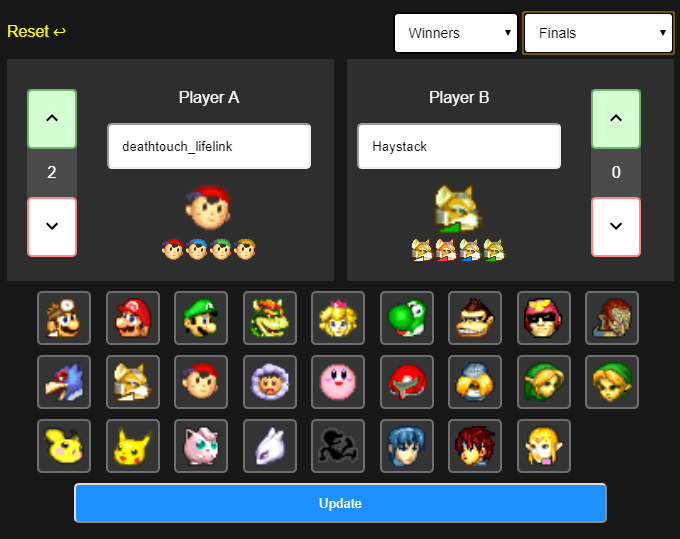
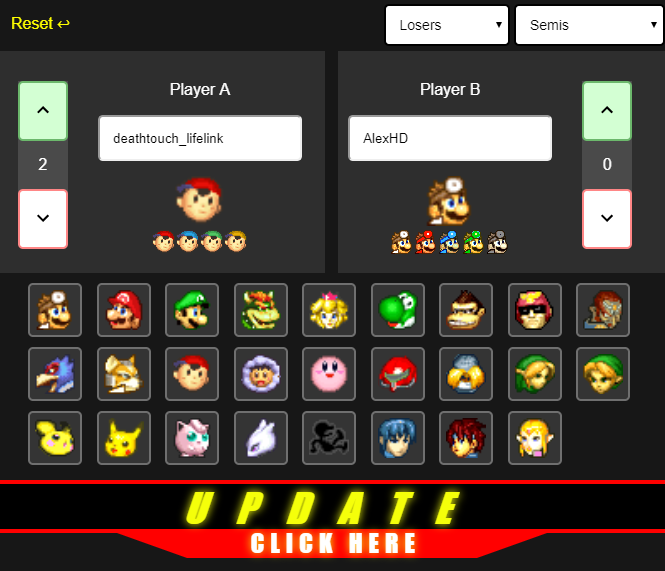
UI updates
Update bar glow and click effects
Tag select box bug fixed

diff --git a/main.css b/main.css
@@ -288,10 +288,6 @@ input {
     text-shadow: 0 0 10px #F5FF0A;
 }
 
-.updateclicker:active {
-    text-shadow: 0 0 50px #F5FF0A;
-    background: #2E2E2E;
-}
 
 .updatebars {
     width: 100%;
@@ -308,4 +304,8 @@ input {
 .updatecontainer:hover div {
     opacity: 1;
     text-shadow: 0 0 10px #F5FF0A;
+}
+
+.updatecontainer:active div {
+    filter: brightness(150%);
 }
